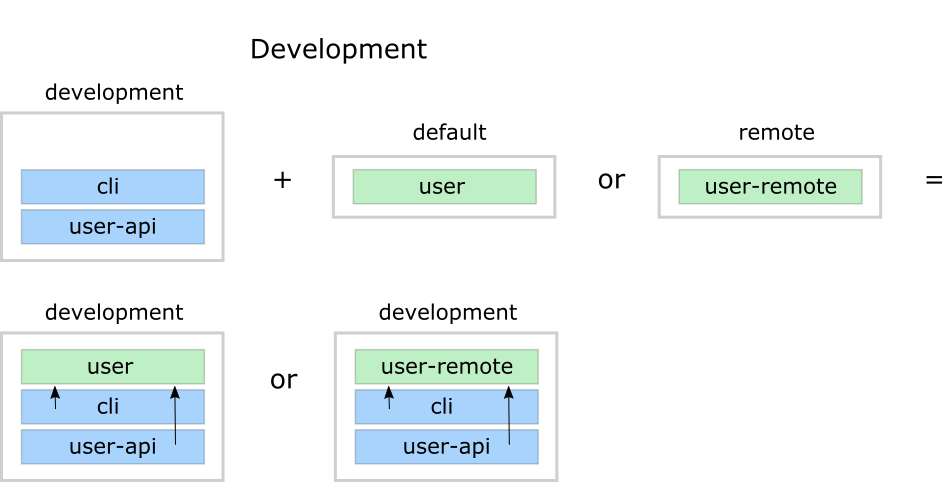
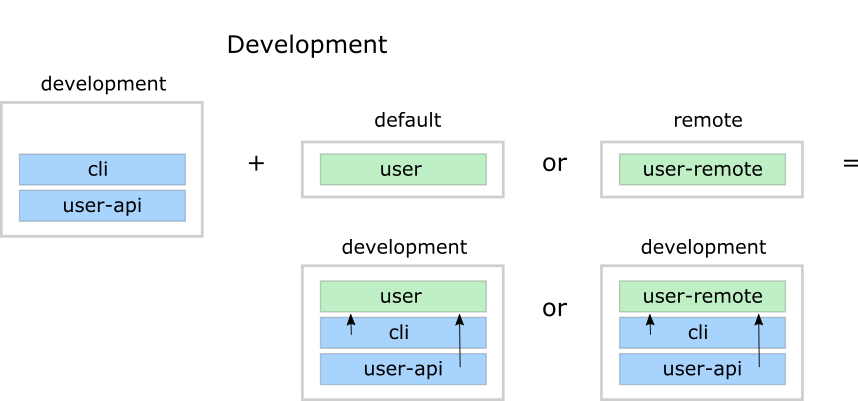
Updated images from Lego bricks to building blocks. (#54)

diff --git a/readme.md b/readme.md
@@ -43,13 +43,7 @@ The old [lein-polylith](https://github.com/tengstrand/lein-polylith) tool has re
 end of its life and has been replaced by the tools.deps version.
 If you have any old Leiningen based projects to migrate, follow the instructions [here](https://github.com/tengstrand/lein-polylith/blob/migrate/migrate/migrate.md).
 
-Some of the Polylith [documentation](https://polylith.gitbook.io) still mentions how things worked
-in the old Leiningen version of the tool, for example the empty `workspace interfaces` and the use of
-`symbolic links` (that have both been removed).
-In some of the videos, we still call things `systems` instead of `services`. 
-Now both the development environment and systems/services are handled as `projects`.
-
-The biggest difference is that the new tool is based on
+The biggest difference compared to the old tools is that the new tool is based on
 [tools.deps](https://github.com/clojure/tools.deps.alpha) instead of [Leiningen](https://leiningen.org/)
 which has a number of benefits, like an improved development experience, faster tests, Windows support,
 and more.
@@ -76,10 +70,10 @@ and more.
 - [Libraries](#libraries)
 - [Context](#context)
 - [Naming](#naming)
-- [Mix languages](#mix-languages)
 - [Configuration](#configuration)
 - [Workspace state](#workspace-state)
 - [Git hook](#git-hook)
+- [Mix languages](#mix-languages)
 - [CI and Deployment](doc/ci-and-deployment.md)
 - [Commands](doc/commands.md)
 - [Colors](#colors)
@@ -362,6 +356,8 @@ it means that we now have a working development environment!
 
 # Component
 
+<img src="images/component.png">
+
 Now when we have a working development environment, let's continue and create our first component,
 by executing the [create component](doc/commands.md#create-component) command:
 ```sh
@@ -369,7 +365,6 @@ cd example
 poly create component name:user
 ```
 
-<img src="images/component.png" width="20%">
 
 Our workspace will now look like this:
 ```sh
@@ -461,6 +456,8 @@ more namespaces can be added to the component when needed.
 
 ## Interface
 
+<img src="images/component-interface.png">
+
 Component interfaces give a number of benefits:
 - _Single point of access_. Components can only be accessed through their interface, which makes them
    easy to find, use and reason about.
@@ -468,8 +465,6 @@ Component interfaces give a number of benefits:
 - _Composability_. All components have access to all other components via interfaces, and can be replaced as long as they use the same interface.
 
 When we created the `user` component, the `user` interface was also created.
-
-<img src="images/component-interface.png" width="20%">
 
 So what is an `interface` and what is it good for?
 
@@ -563,11 +558,11 @@ Finally, if we have really good reasons to, the `interface` namespace name can b
 
 ## Base
 
+<img src="images/base.png">
+
 A `base` is similar to a `component` except for two things:
 - It doesn't have an `interface`.
 - It exposes a public API to the outside world.
-
-<img src="images/base.png" width="30%">
 
 The lack of an `interface` makes bases less composable compared to components.
 This is okay, because they serve a different purpose which is to be a bridge between 
@@ -655,9 +650,9 @@ The next thing we want to do is to build an artifact that will turn the code int
 To do that, we need to start by creating a project.
 
 ## Project
-There are two kinds of projects in Polylith: development and deployable.
+<img src="images/project.png">
 
-<img src="images/project.png" width="30%">
+There are two kinds of projects in Polylith: development and deployable.
 
 1. The `development` project:
    - This is where we work with the code, often from a REPL. 
@@ -835,7 +830,7 @@ selecting another `sha` from an existing [commit](https://github.com/polyfy/poly
 
 The Polylith tool doesn’t include a `build` command.
 That’s because we don’t want the tool to restrict our build pipeline in any way. 
-Instead, the tool lets us choose our own way to build our Polylith artefacts for our particular pipeline; 
+Instead, the tool lets us choose our own way to build our Polylith artifacts for our particular pipeline; 
 which could be with simple build scripts, all the way to cloud-based build tools.
 
 Let's say we want to create an executable jar file out of the `command-line` project.  
@@ -1565,47 +1560,24 @@ allows us to use [remote procedure calls](https://en.wikipedia.org/wiki/Remote_p
 in a simple way.
 
 Let's create a checklist that will take us there:
-- [ ] Create the `user-service`:
-  - [ ] Update its `deps.edn`:
-    - [ ] Add the Slacker library and libraries it needs.
-    - [ ] Add paths for the `user` component.
-    - [ ] Add paths for the `user-api` base.
-    - [ ] Add the `aot` and `uberjar` aliases (so we can build an uberjar).
-- [ ] Create the `user-api` base:
-  - [ ] Implement the server.
-- [ ] Create the `user-remote` component:
-  - [ ] Create the `core` namespace and call `user-service` from there.
-  - [ ] Delegate from the `interface` to the `core` namespace.
-- [ ] Update the `development` project:
-  - [ ] Update `./deps.edn`:
-    - [ ] Add an alias for the `user-service` (:project-to-alias).
-    - [ ] Add namespace to the library mapping (:ns-to-lib).
-    - [ ] Remove the `user` paths.
-    - [ ] Add the Slacker library and libraries it needs.
-  - [ ] Create the `default` and `remote` profiles.
-    - [ ] Add the `user` paths to the `default` profile.
-    - [ ] Add the `user-remote` paths to the `remote` profile.
-    - [ ] Activate the `default` profile in the dev project.
-- [ ] Switch from `user` to `user-remote` in `deps.edn` for the `command-line` project.
-  - [ ] Remove `user` related paths from `projects/command-line/deps.edn`.
-  - [ ] Add `user-remote` related paths to `projects/command-line/deps.edn`.
-  - [ ] Add the Slacker library to `deps.edn` for `command-line` (used by `user-remote`).
-  - [ ] Add the log4j library to `deps.edn` for `command-line` (to get rid of warnings).
-  - [ ] Rebuild `command-line`.
-- [ ] Create a build script for `user-service`.
-    - [ ] Make it executable.
-    - [ ] Execute it.
+1. Create the `user-service`.
+2. Create the `user-api` base.
+3. Create the `user-remote` component.
+4. Update the `development` project.
+5. Switch from `user` to `user-remote` in `deps.edn` for the `command-line` project.
+6. Create a build script for `user-service`.
 
 Let's go through the list.
-- [x] Create the `user-service`
-  - [x] Update its `deps.edn`:
-    - [x] Add the Slacker library and libraries it needs.
-    - [x] Add paths for the `user` component.
-    - [x] Add paths for the `user-api` base.
-    - [x] Add the `aot` and `uberjar` aliases.
 
+#### 1. Create the `user-service`:
+- [x] Update its `deps.edn`:
+  - [x] Add the Slacker library and libraries it needs.
+  - [x] Add paths for the `user` component.
+  - [x] Add paths for the `user-api` base.
+  - [x] Add the `aot` and `uberjar` aliases.
+  
 ```sh
-poly create p name:user-service
+poly create project name:user-service
 ```
 ```
 {...
@@ -1641,9 +1613,9 @@ poly create p name:user-service
   ...
 ```
 
-- [x] Create the `user-api` base:
+#### 2. Create the `user-api` base:
 ```
-poly create b name:user-api
+poly create base name:user-api
 ```
 - [x] Implement the server for `user-api`:
 ```
@@ -1672,11 +1644,11 @@ example
   (core/hello (str name " - from the server")))
 ```
 
-- [x] Create the `user-remote` component:
-  - [x] Create the `core` namespace and call `user-service` from there.
-  - [x] Delegate from the `interface` to the `core` namespace.
+#### 3. Create the `user-remote` component:
+- [x] Create the `core` namespace and call `user-service` from there.
+- [x] Delegate from the `interface` to the `core` namespace.
 ```sh
-poly create c name:user-remote interface:user
+poly create component name:user-remote interface:user
 ```
 ```
 example
@@ -1705,16 +1677,16 @@ example
   (core/hello name))
 ```
 
-- [x] Update the `development` project:
-  - [x] Update `./deps.edn`:
-    - [x] Add an alias for the `user-service` (:project-to-alias).
-    - [x] Add namespace to the library mapping (:ns-to-lib).
-    - [x] Remove the `user` paths.
-    - [x] Add the Slacker library and libraries it needs.
-  - [x] Create the `default` and `remote` profiles.
-    - [x] Add the `user` paths to the `default` profile.
-    - [x] Add the `user-remote` paths to the `remote` profile.
-    - [x] Activate the `default` profile in the dev project.
+#### 4. Update the `development` project:
+- [x] Update `./deps.edn`:
+  - [x] Add an alias for the `user-service` (:project-to-alias).
+  - [x] Add namespace to the library mapping (:ns-to-lib).
+  - [x] Remove the `user` paths.
+  - [x] Add the Slacker library and libraries it needs.
+- [x] Create the `default` and `remote` profiles.
+  - [x] Add the `user` paths to the `default` profile.
+  - [x] Add the `user-remote` paths to the `remote` profile.
+  - [x] Activate the `default` profile in the dev project.
 
 ```clojure
 {:polylith {:vcs "git"
@@ -1769,12 +1741,12 @@ Now we should activate the `default` profiles so that the IDE will recognise the
 
 <img src="images/profile-activate-default.png" width="20%">
 
-- [x] Switch from `user` to `user-remote` in `deps.edn` for the `command-line` project.
-  - [x] Remove `user` related paths from `projects/command-line/deps.edn`.
-  - [x] Add `user-remote` related paths to `projects/command-line/deps.edn`.
-  - [x] Add the Slacker library to `deps.edn` for `command-line` (used by `user-remote`).
-  - [x] Add the log4j library to `deps.edn` for `command-line` (to get rid of warnings).
-  - [x] Rebuild `command-line`.
+#### 5. Switch from `user` to `user-remote` in `deps.edn` for the `command-line` project.
+- [x] Remove `user` related paths from `projects/command-line/deps.edn`.
+- [x] Add `user-remote` related paths to `projects/command-line/deps.edn`.
+- [x] Add the Slacker library to `deps.edn` for `command-line` (used by `user-remote`).
+- [x] Add the log4j library to `deps.edn` for `command-line` (to get rid of warnings).
+- [x] Rebuild `command-line`.
 
 ```
 example
@@ -1801,9 +1773,9 @@ Execute:
 ./build-cli-uberjar.sh  
 ```
 
-- [x] Create a build script for `user-service`.
-    - [x] Make it executable.
-    - [x] Execute it.
+#### 6. Create a build script for `user-service`.
+- [x] Make it executable.
+- [x] Execute it.
 ```sh
 example
 ├── scripts
@@ -1950,7 +1922,15 @@ It worked!
 To explain dependencies, we will use the
 [RealWorld example app](https://github.com/furkan3ayraktar/clojure-polylith-realworld-example-app/tree/clojure-deps).
 
-Start by cloning the project by executing these commands from outside the `example` workspace (e.g. the parent folder of our `example` workspace):
+Start by cloning the project by executing these commands from outside the `example` workspace, 
+e.g. the parent folder of our `example` workspace:
+
+```
+clone-from-here
+├── example
+└── clojure-polylith-realworld-example-app
+```
+
 ```sh
 git clone git@github.com:furkan3ayraktar/clojure-polylith-realworld-example-app.git
 cd clojure-polylith-realworld-example-app
@@ -2037,8 +2017,6 @@ To list all libraries used in the workspace, execute the [libs](#libs) command:
 poly libs
 ```
 <img src="images/realworld-lib-deps.png" width="60%">
-
-----------------
 
 Libraries can be specified in three different ways:
 
@@ -2156,13 +2134,12 @@ If we have found a good name for the component, then it's generally a good idea 
 the interface, which is also the default behaviour when a component is created, e.g.:
 
 ```
-poly create c name:invoicer
+poly create component name:invoicer
 ```
 ...which is the same as:
 ```
-poly create c name:invoicer interface:invoicer
+poly create component name:invoicer interface:invoicer
 ``` 
-
 
 Bases are responsible for exposing a public API and delegating the incoming calls to components.
 A good way to name them is to start with what they do, followed by the type of the API.
@@ -2172,29 +2149,6 @@ good name.
 
 Projects (development excluded) represent the deployable artifacts, like services. Those artifacts
 should, if possible, be named after what they are, like `invoicer` or `report-generator`.
-
-## Mix languages
-
-Polylith allows us to run multiple languages side by side where each language lives in its own workspace.
-This will work especially well if we run different languages on top of the same platform, e.g. the JVM
-as for this tool (see list of [JVM languages](https://en.wikipedia.org/wiki/List_of_JVM_languages)).
-
-Let's say we have the languages A, B and C. The first thing to remember is to have different
-names of the top namespace for each language, so that we don't run into name conflicts.
-We would end up with top namespaces like: `com.mycompany.a`, `com.mycompany.b` and `com.mycompany.c`.
-Each language will have its own workspace and will compile each component to its own library,
-or alternatively compile all components into one big jar like `a.jar`, `b.jar` or `c.jar`.
-
-So if component `com.mycompany.a.authentication` is used by `com.mycompany.b.user`,
-then `com.mycompany.b.user` will include either `a-authentication.jar` or `a.jar`
-in its library list, to be able to access `authentication`.
-
-This setup allows us to share components between languages by first compiling them into libraries.
-We could also use the [Java Native Interface](https://en.wikipedia.org/wiki/Java_Native_Interface) to share code between languages
-that don't run on top of the JVM, or use something like [Neanderthal](https://neanderthal.uncomplicate.org)
-if we want to integrate with the [GPU](https://en.wikipedia.org/wiki/Graphics_processing_unit).
-
-An alternative approach could be to use the [GraalVM](https://www.graalvm.org) or similar.
 
 ## Configuration
 
@@ -2402,6 +2356,28 @@ if [[ $? -ne 0 ]] then
   exit 1
 fi
 ```
+
+## Mix languages
+
+Polylith allows us to run multiple languages side by side where each language lives in its own workspace.
+This will work especially well if we run different languages on top of the same platform, e.g. the JVM
+as for this tool (see list of [JVM languages](https://en.wikipedia.org/wiki/List_of_JVM_languages)).
+
+Let's say we have the languages A, B and C. The first thing to remember is to have different
+names of the top namespace for each language, so that we don't run into name conflicts.
+We would end up with top namespaces like: `com.mycompany.a`, `com.mycompany.b` and `com.mycompany.c`.
+Each language will have its own workspace and will compile all components and bases 
+into one big jar like `a.jar`, `b.jar` or `c.jar`.
+
+So if component `com.mycompany.a.authentication` is used by `com.mycompany.b.user`,
+then `com.mycompany.b.user` will include `a.jar` in its library list, to be able to access `authentication`.
+
+This setup allows us to share components between languages by first compiling them into libraries.
+We could also use the [Java Native Interface](https://en.wikipedia.org/wiki/Java_Native_Interface) to share code between languages
+that don't run on top of the JVM, or use something like [Neanderthal](https://neanderthal.uncomplicate.org)
+if we want to integrate with the [GPU](https://en.wikipedia.org/wiki/Graphics_processing_unit).
+
+An alternative approach could be to use the [GraalVM](https://www.graalvm.org) or similar.
 
 ## Colors
 
